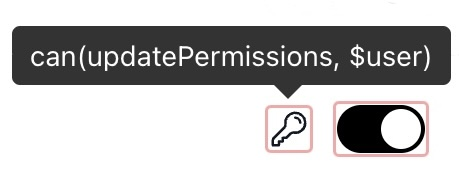
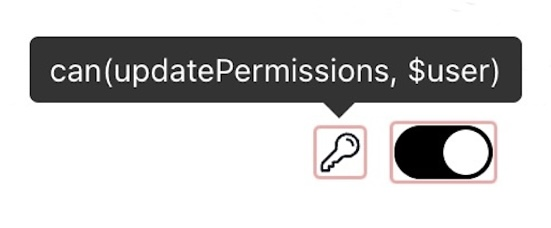
update screenshot

Changed region(s): [[0.0, 0.1316, 1.0, 0.4474], [0.061, 0.4474, 0.9455, 0.8421], [0.6405, 0.4474, 0.9455, 0.4737]]

diff --git a/README.md b/README.md
@@ -15,7 +15,7 @@ Supported directives:
 - `@env`, `@production`
 - `@auth`, `@guest`
 
-![screenshot](/resources/images/screenshot.jpg)
+<img src="/resources/images/screenshot.jpg" alt="screenshot" style="max-width: 260px" />
 
 <!-- TODO: Display any authorization & authentication middlewares applied page (or any auth/policy check before blade renders), so you can easily spot if the current route doesn't apply appropriate guards -->
 
